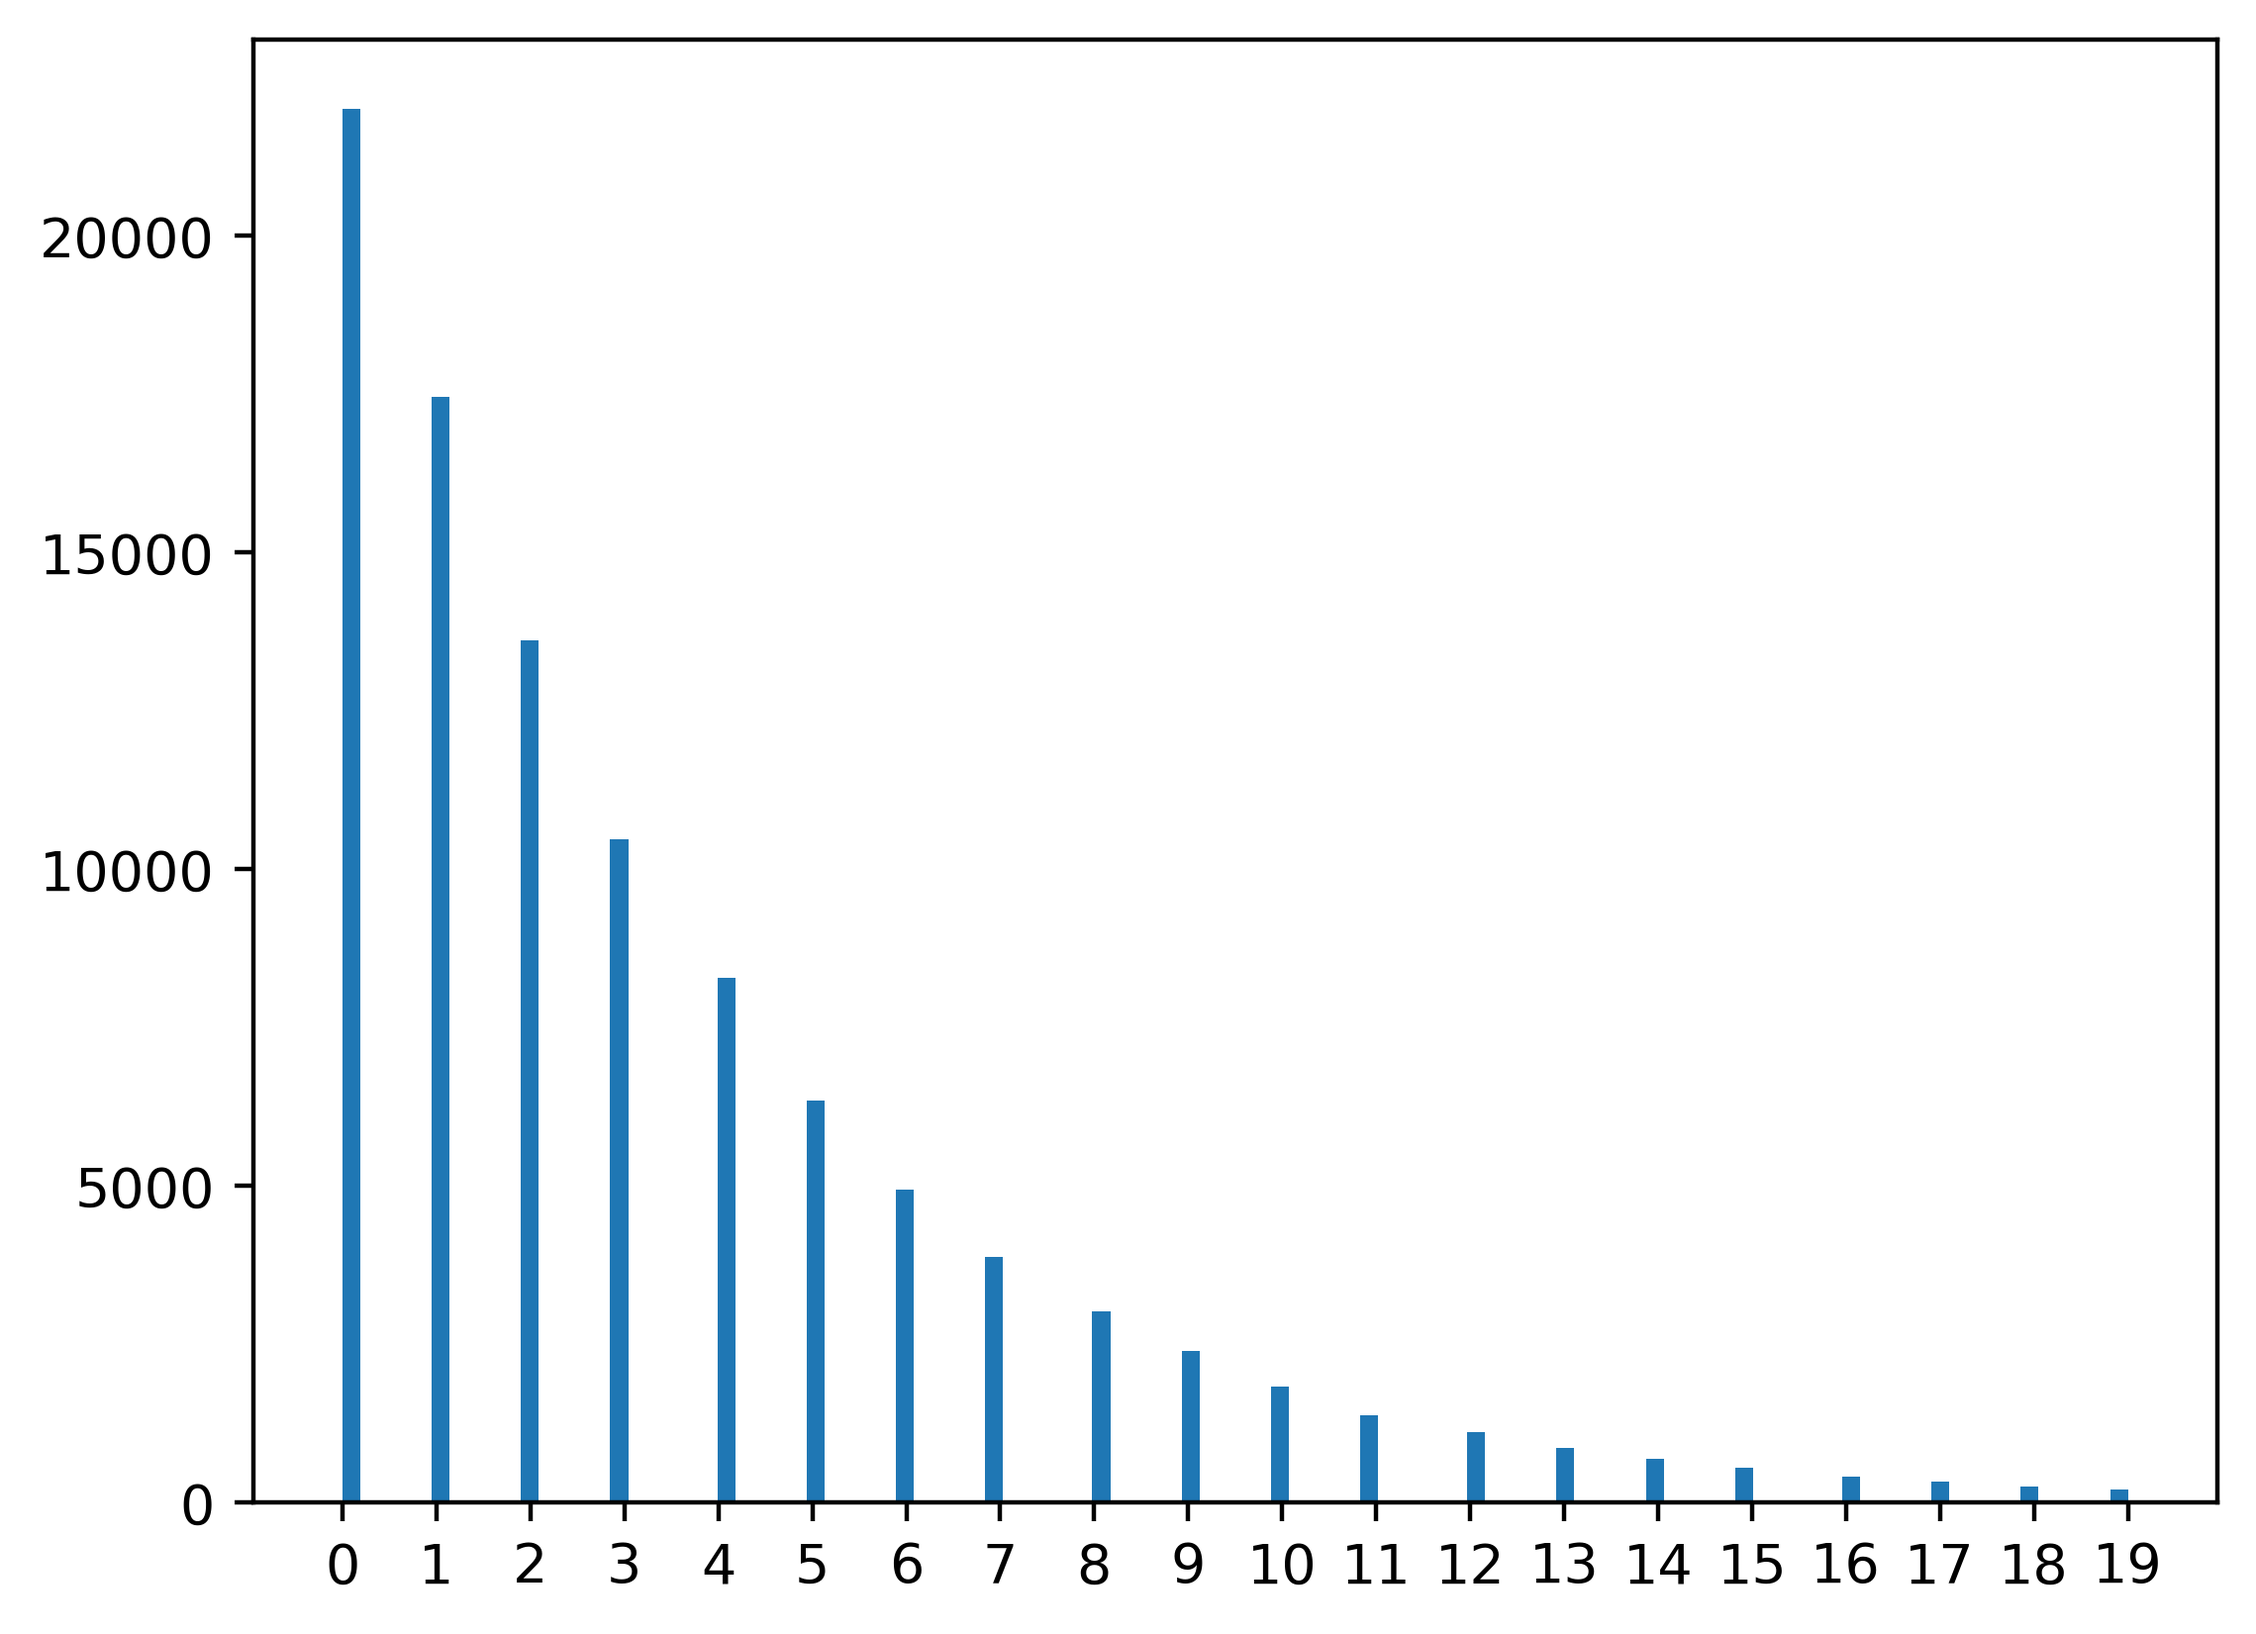
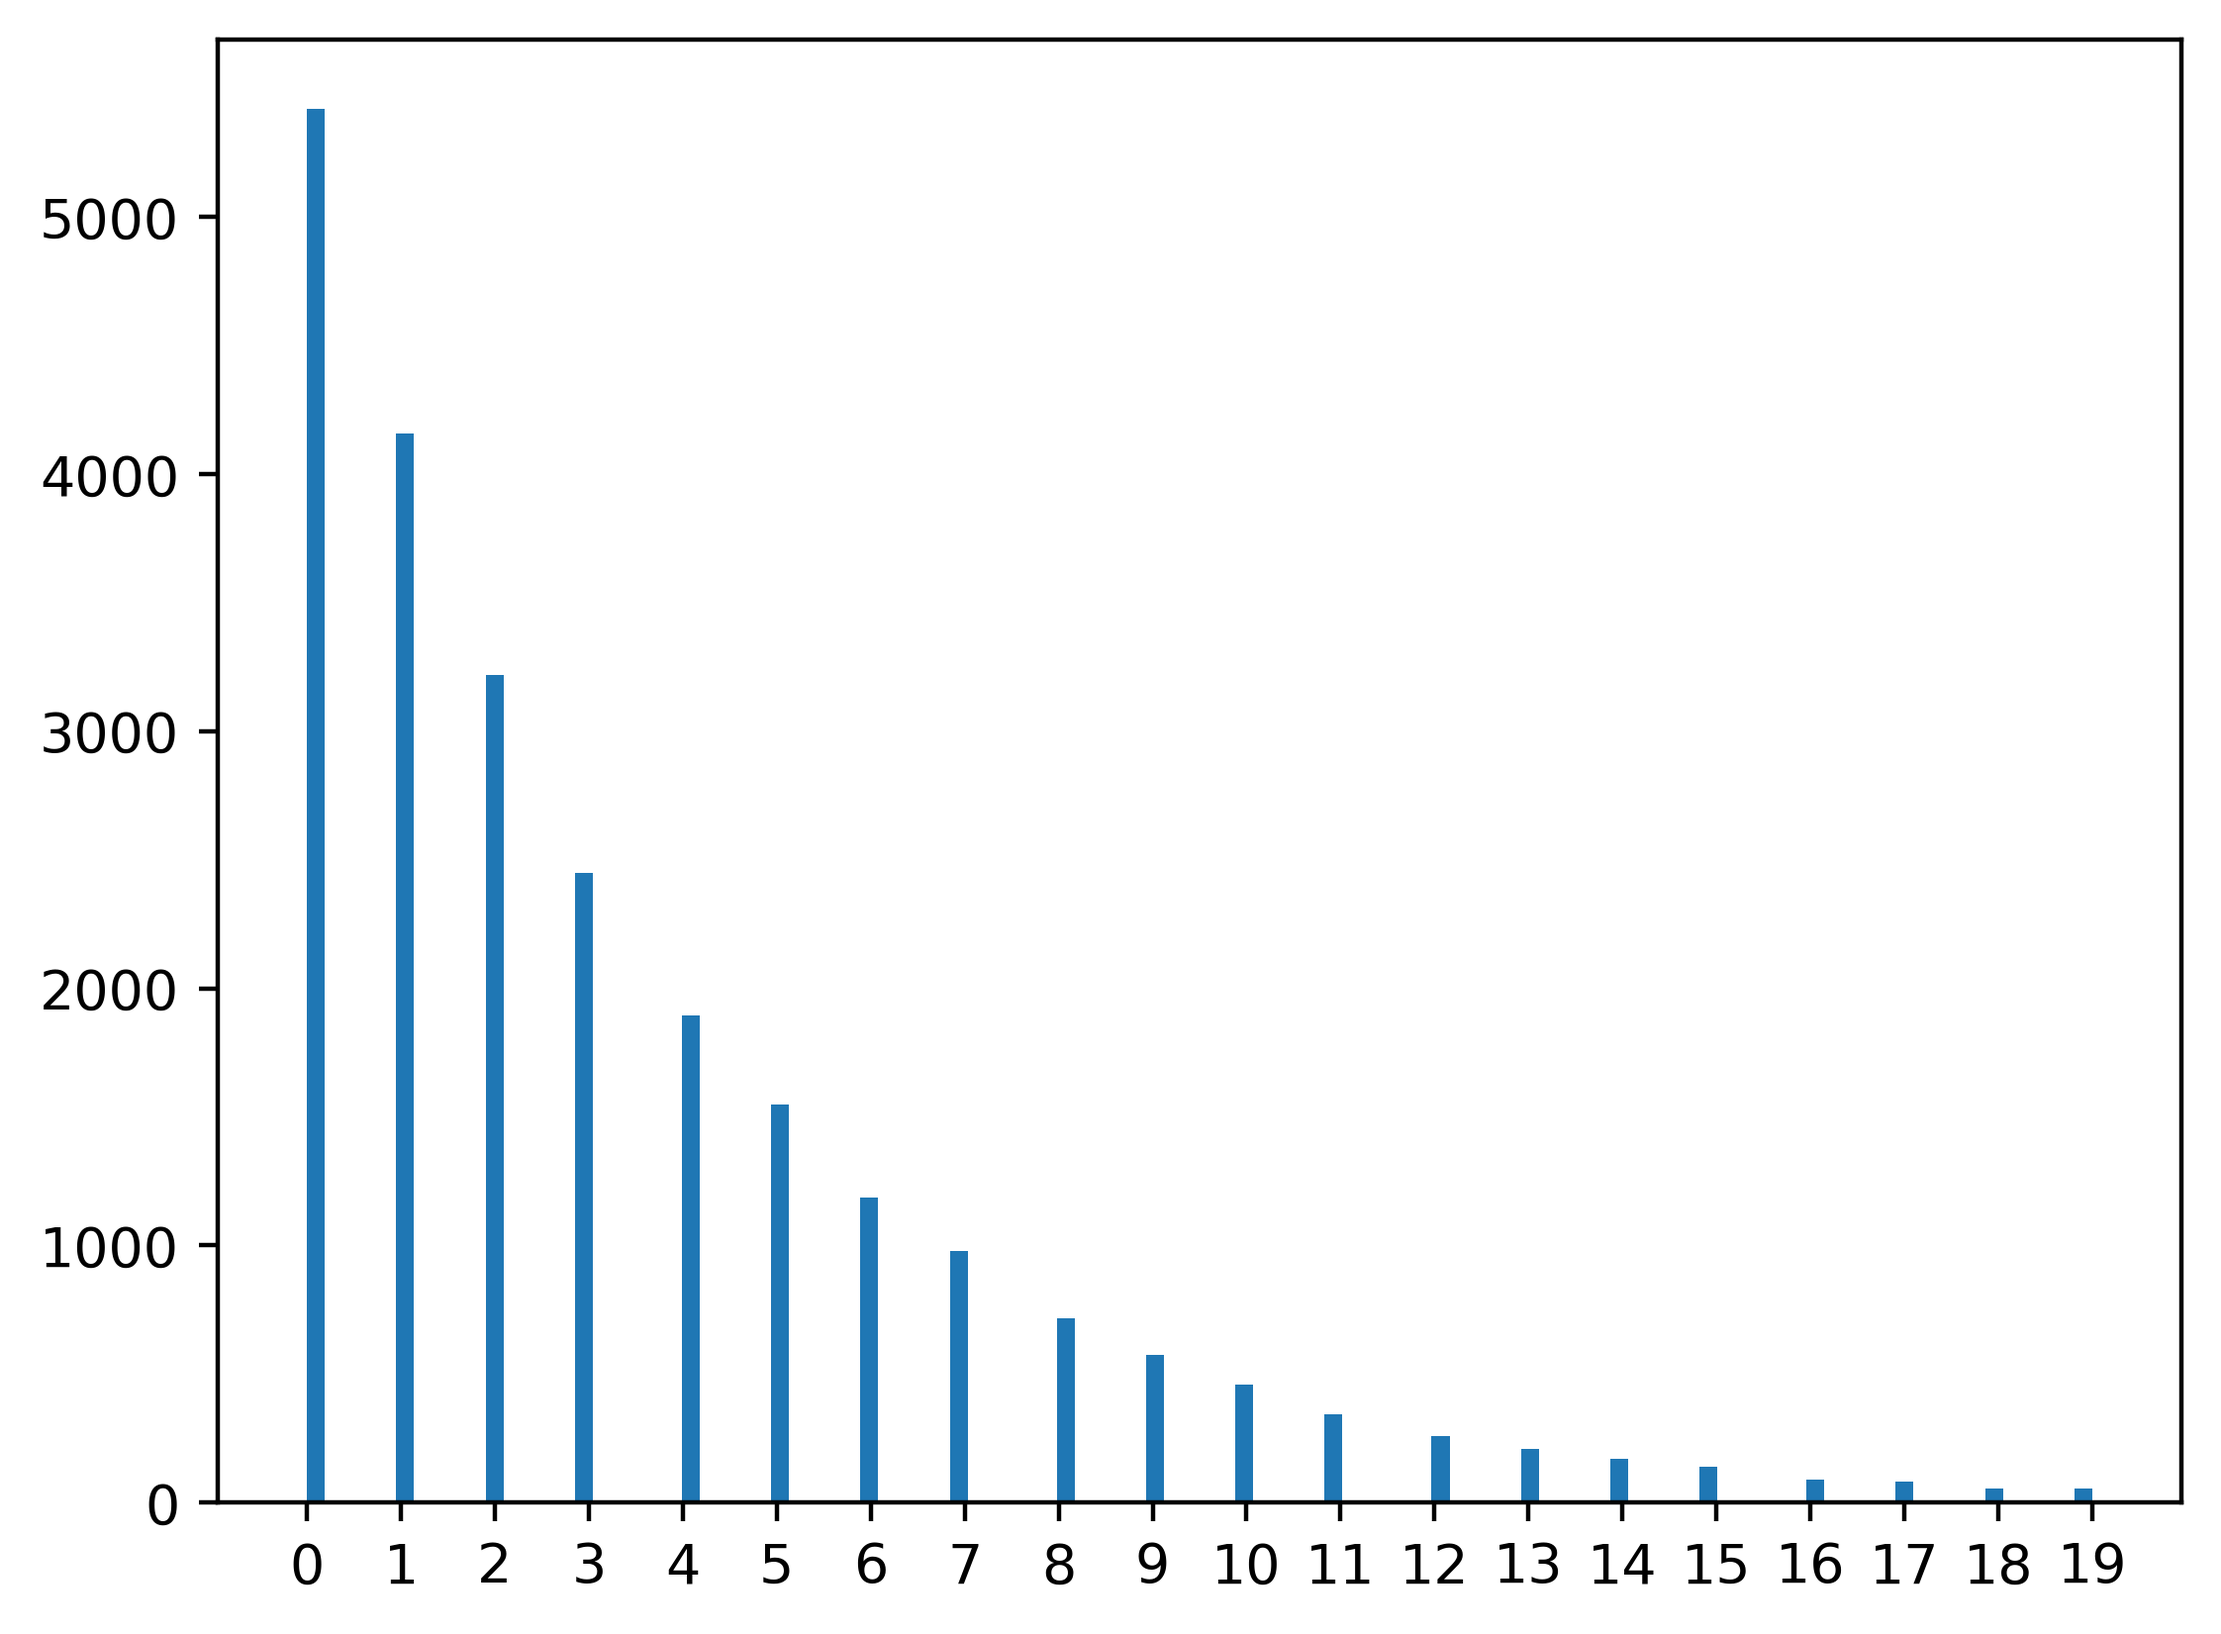
update

Changed region(s): [[0.0, 0.0309, 0.9046, 0.9885], [0.9358, 0.9267, 0.967, 0.9576]]

diff --git a/k6_script.js b/k6_script.js
@@ -1,18 +1,11 @@
-import http from 'k6/http';
+const PD = require('./node_modules/probability-distributions-k6/index.js');
 
-export const options = {
-  scenarios: {
-    constant_request_rate: {
-      executor: 'constant-arrival-rate',
-      rate: parseInt(__ENV.TA),
-      timeUnit: '1s',
-      duration: '12m',
-      preAllocatedVUs: 100,
-      maxVUs: 500,
-    },
-  },
-};
-
-export default function () {
-  http.get(`http://${__ENV.IP}:31001`);
+for (let i = 0; i < 24000; i++) {
+  let pods = 20;
+  let distribution_output = -1;
+  while (distribution_output < 1 || distribution_output > pods) {
+    //distribution_output = Math.round(PD.rexp(1, 5 / pods)); // exponential distribution
+    distribution_output = Math.round(PD.rnorm(1, (pods + 1) / 2, ((pods + 1) / 2) / 6)); // normal distribution
+  }
+  console.log(distribution_output - 1)
 }
